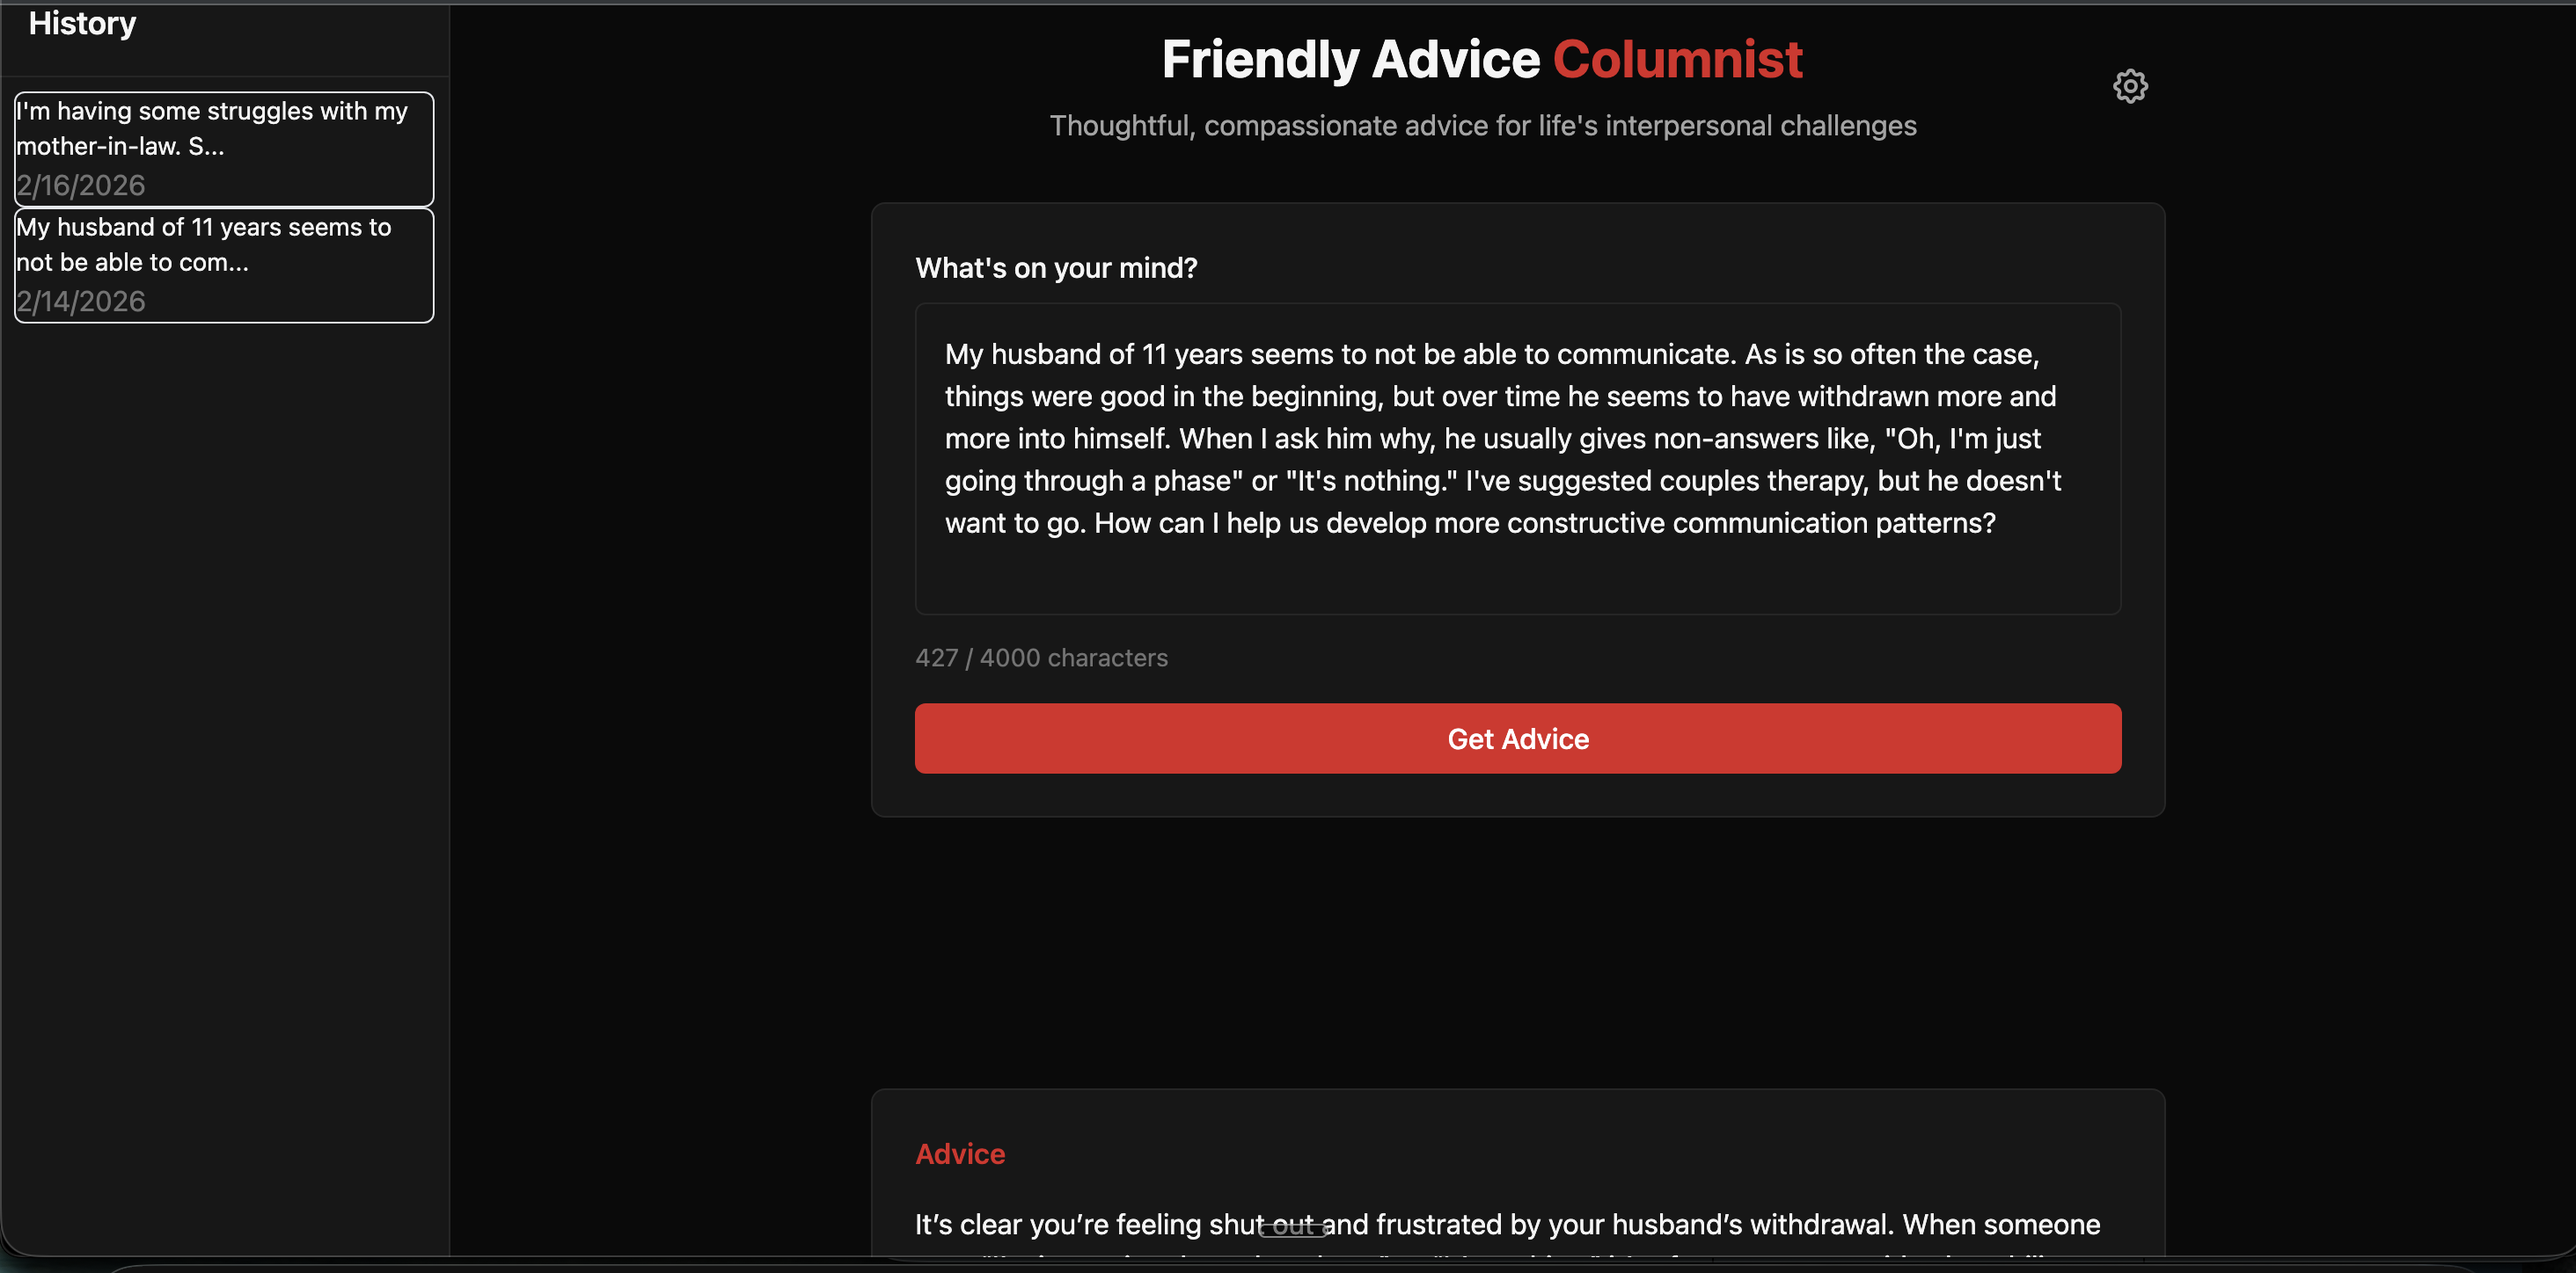
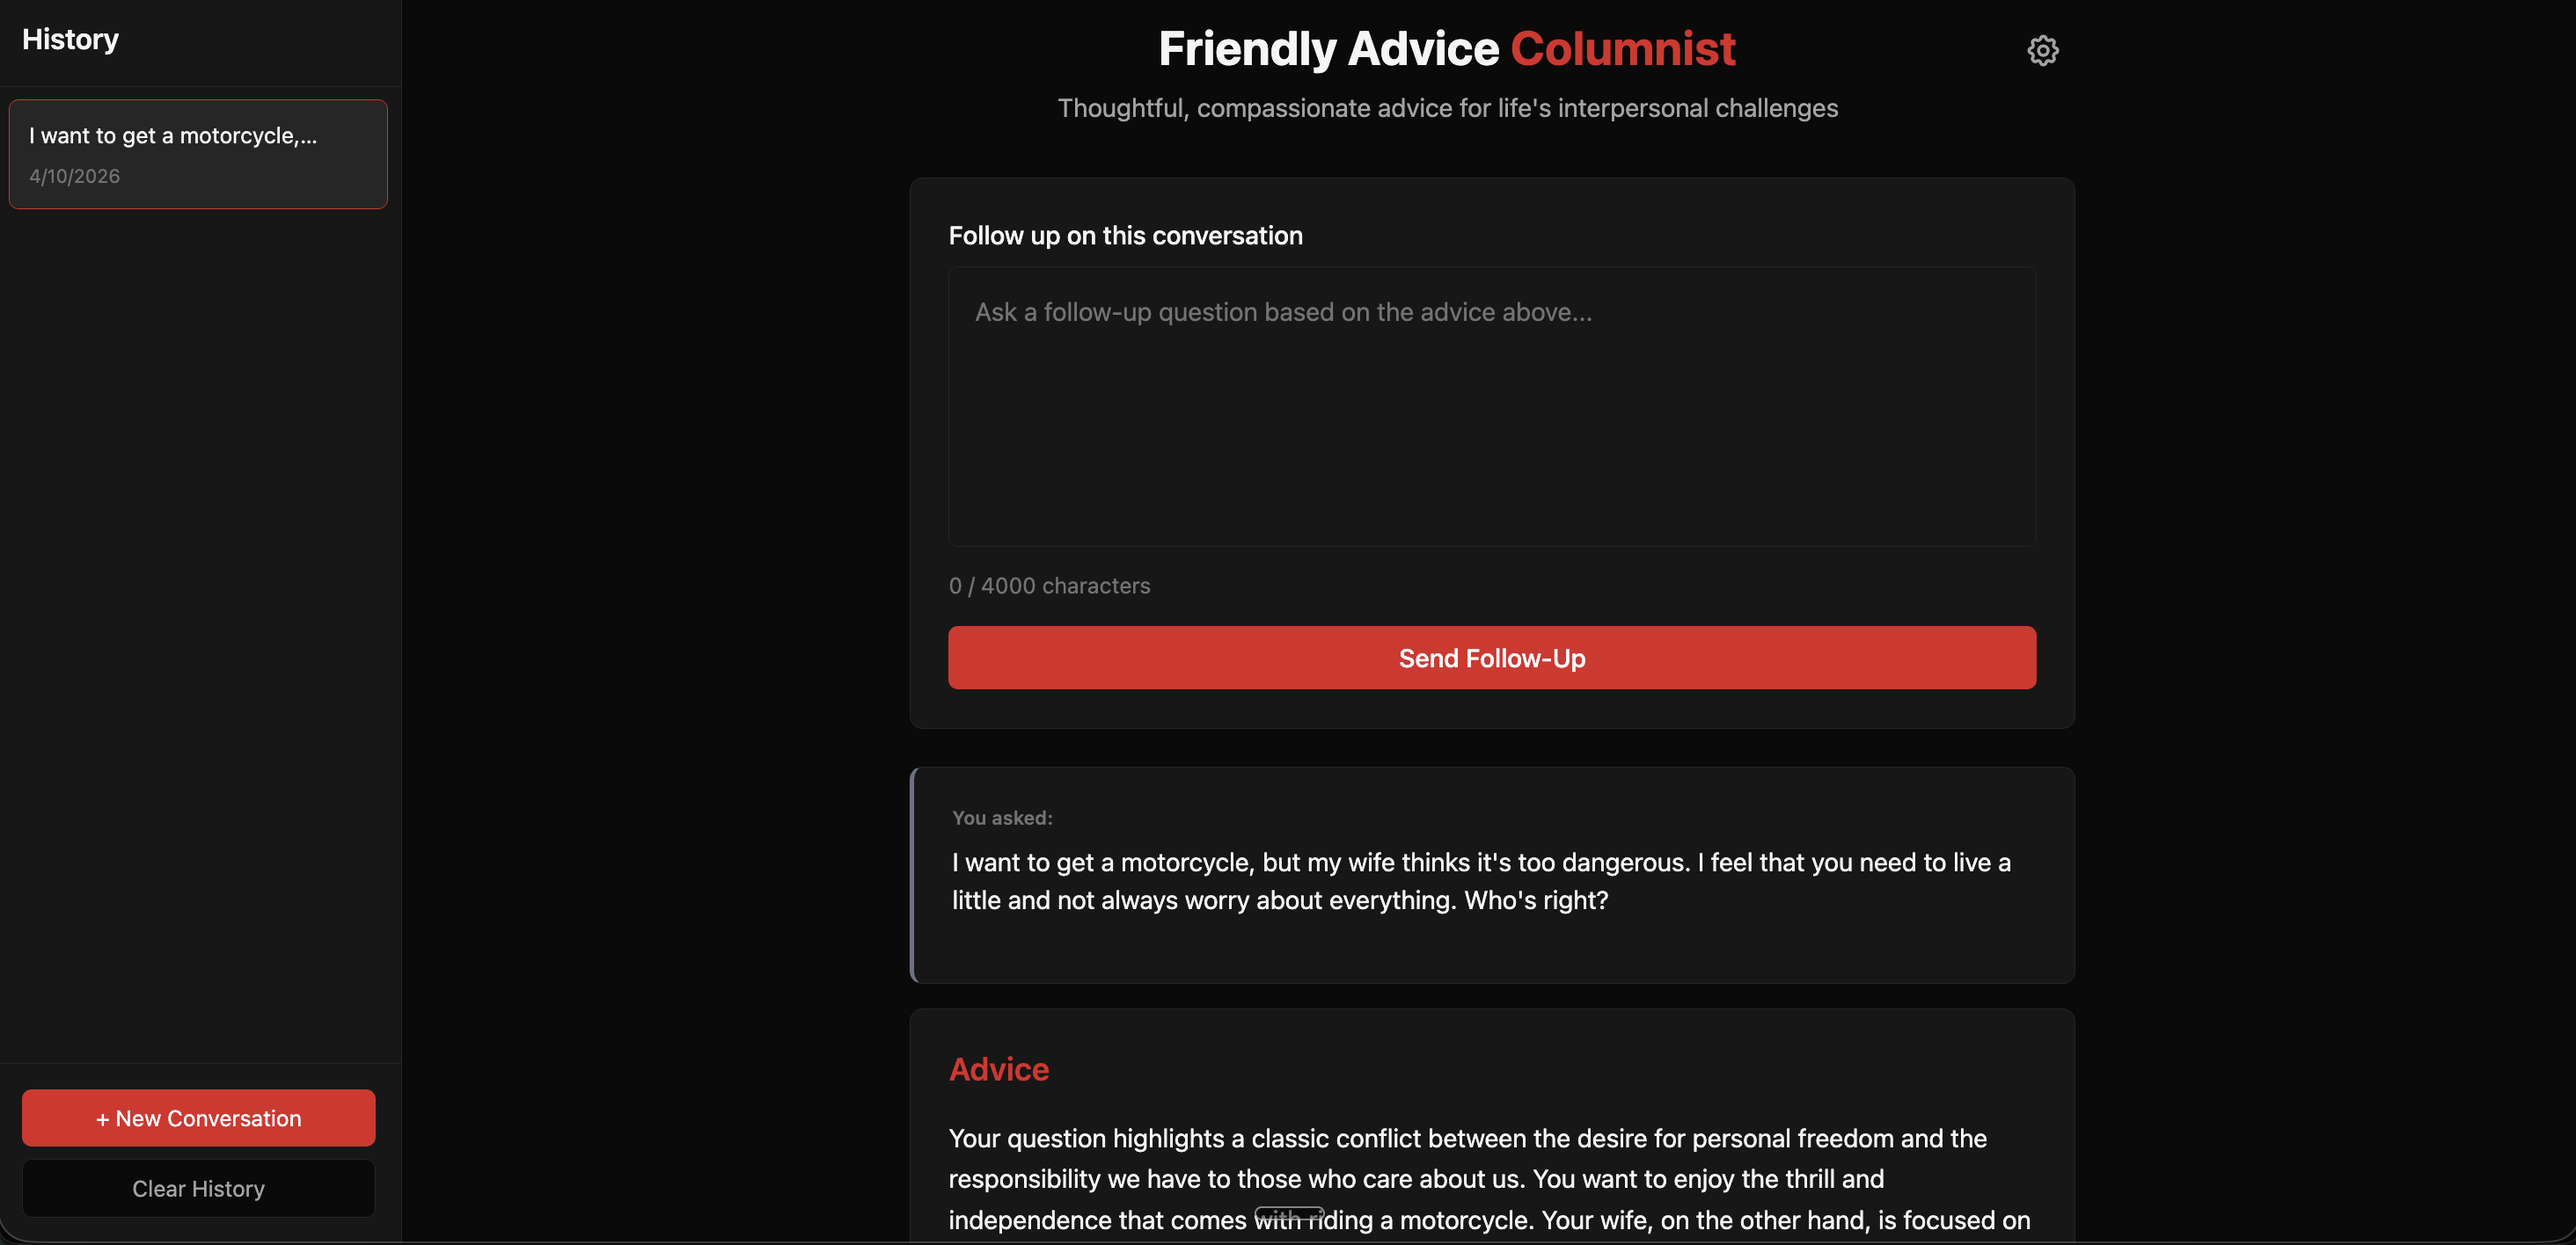
fix: replace Friendly Advice Columnist portfolio screenshot
Swap in an updated screenshot that resolves the vertical-gap visual bug
and showcases the new multi-turn conversation feature.

diff --git a/.cursor/bugs/1-replace-the-screenshot-for-friendly-advice-columnist-on-portfolio-page-with-a-better-image.md b/.cursor/bugs/1-replace-the-screenshot-for-friendly-advice-columnist-on-portfolio-page-with-a-better-image.md
@@ -17,4 +17,6 @@ We need a new screenshot that solves these problems. Here is one that can be use
 
 Replace the existing screenshot with the new one on the portfolio page. 
 
+After replacing the image, commit the relevant changes and then deploy the site with the new changes. 
+
 ## Acceptance criteria
